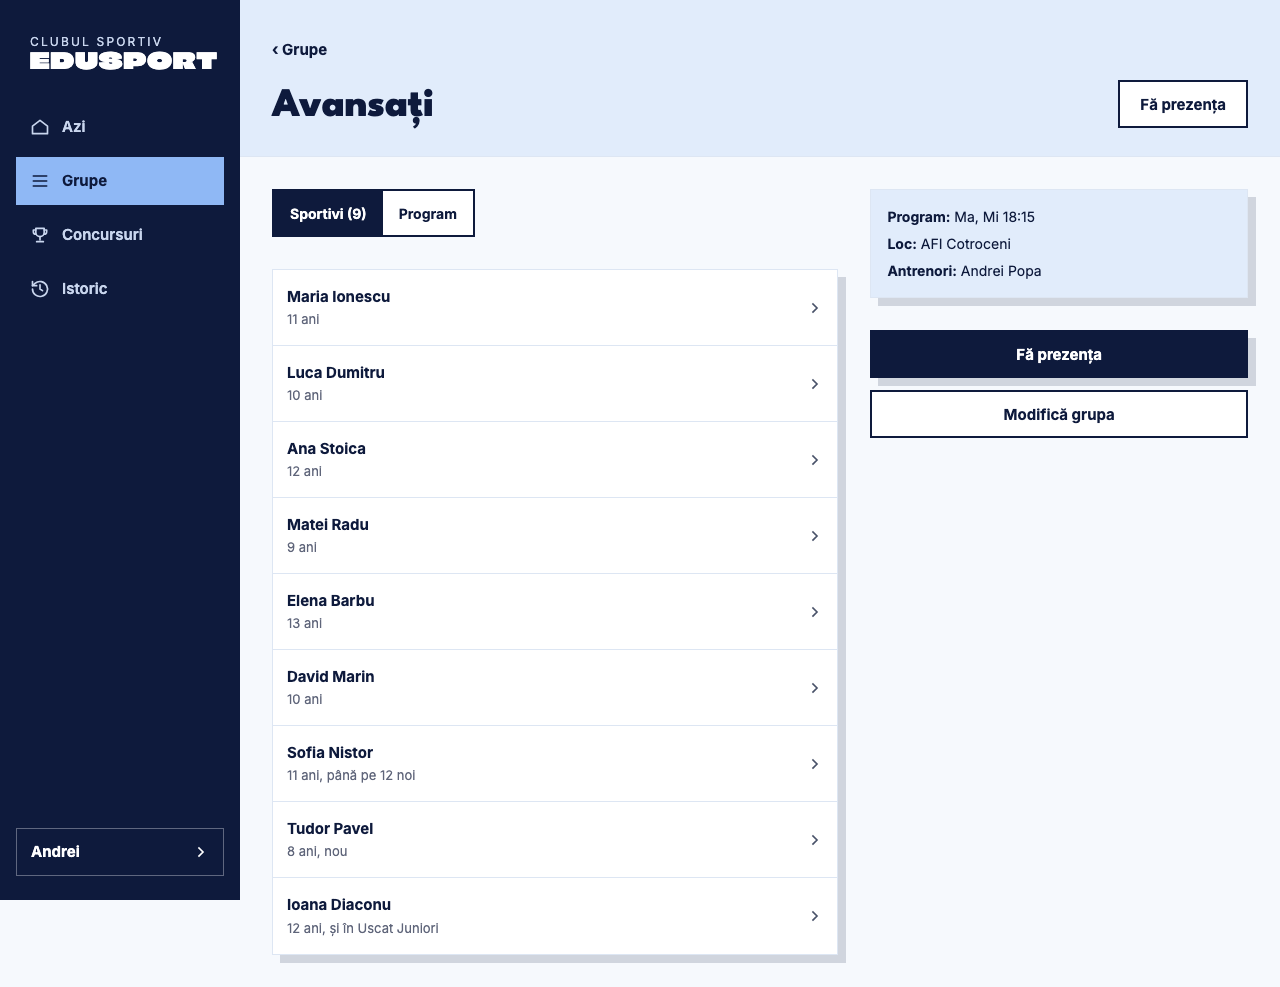
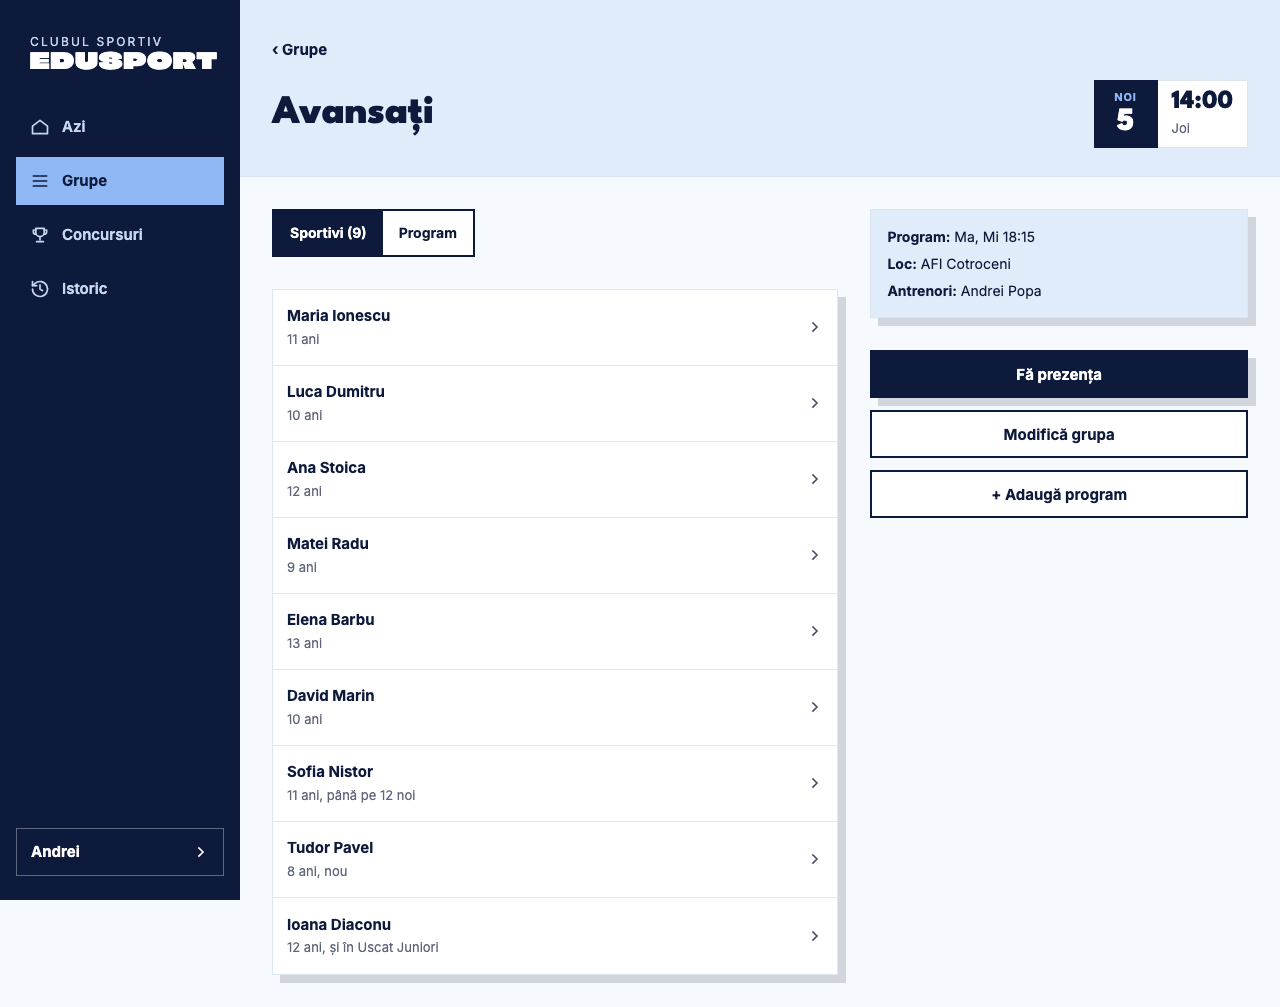
feat(portal): now tile on every coach page from the desktop breakpoint, pinned to the container's right edge; one shared live clock hook

diff --git a/src/app/(antrenor)/antrenor/(app)/page.tsx b/src/app/(antrenor)/antrenor/(app)/page.tsx
@@ -4,13 +4,12 @@ import { useEffect, useRef } from "react";
 import { useRouter, useSearchParams } from "next/navigation";
 import Button from "@/components/ui/button";
 import { AZI, LIST } from "@/lib/portal/copy";
-import { longDay, monthShort, weekdayShort } from "@/lib/portal/format";
+import { weekdayShort } from "@/lib/portal/format";
 import type { CoachClassRow, CoachToday } from "@/lib/portal/api-types";
 import { LoadError } from "@/app/_portal/ui/LoadError";
 import { DateBlock } from "@/app/_portal/ui/DateBlock";
 import { KeyValueCard } from "@/app/_portal/ui/KeyValueCard";
 import { ListRow } from "@/app/_portal/ui/ListRow";
-import { NowTile } from "@/app/_portal/ui/NowTile";
 import { PageBody } from "@/app/_portal/ui/PageBody";
 import { PageHeader } from "@/app/_portal/ui/PageHeader";
 import { ListCard } from "@/app/_portal/ui/PortalCard";
@@ -18,7 +17,7 @@ import { Section, SectionHeading, SeeAllLink } from "@/app/_portal/ui/SectionHea
 import { Spinner } from "@/app/_portal/ui/Spinner";
 import { StatCard } from "@/app/_portal/ui/StatCard";
 import { StatusBlock } from "@/app/_portal/ui/StatusBlock";
-import { useClubClock } from "../_lib/use-clock";
+import { useNow } from "@/app/_portal/lib/use-now";
 import { usePortal } from "../_lib/use-portal";
 import { NewTrainingPopup } from "./antrenament/NewTrainingPopup";
 import { useMe } from "../_lib/me-context";
@@ -39,20 +38,22 @@ export default function AziPage() {
   const router = useRouter();
   const nou = useSearchParams().get("nou");
   const today = usePortal<CoachToday>("coach/today");
-  const clock = useClubClock();
+  const clock = useNow();
   // At midnight the day changes: ask for today's lists again (the old ones stay on screen meanwhile).
-  const seenDate = useRef(clock.date);
+  const seenDate = useRef<string | null>(null);
   const { reload } = today;
+  const date = clock?.date ?? null;
   useEffect(() => {
-    if (seenDate.current === clock.date) return;
-    seenDate.current = clock.date;
-    reload();
-  }, [clock.date, reload]);
+    if (date === null || seenDate.current === date) return;
+    const first = seenDate.current === null;
+    seenDate.current = date;
+    if (!first) reload();
+  }, [date, reload]);
   const shown = today.data ?? today.previous;
   if (today.state === "loading" && !shown) return <PageBody><div className="flex justify-center py-6"><Spinner /></div></PageBody>;
   if (!shown) return <PageBody><LoadError onRetry={today.reload} /></PageBody>;
   const data = shown;
-  const now = clock.time;
+  const now = clock?.time;
   const rows: SessionRowData[] = [
     ...data.groups.map(groupRow),
     ...data.lessons.map((l): SessionRowData => ({
@@ -124,7 +125,7 @@ export default function AziPage() {
         brand
         kicker={AZI.greeting(me?.firstName ?? "")}
         title={AZI.title}
-        aside={<NowTile month={monthShort(clock.date)} day={String(Number(clock.date.slice(8)))} time={now} weekday={weekdayShort(clock.date)} label={AZI.nowLabel(longDay(clock.date), now)} />}
+        tileOnPhone
         actions={<Button variant="secondary" href="/?nou=1" className="h-auto">{AZI.addTraining}</Button>}
       />
       <PageBody>

diff --git a/src/app/_portal/ui/PageHeader.tsx b/src/app/_portal/ui/PageHeader.tsx
@@ -1,5 +1,6 @@
 import Link from "@/components/ui/link";
 import { BrandBlock } from "@/app/_portal/ui/BrandBlock";
+import { NowTile } from "@/app/_portal/ui/NowTile";
 import { HeaderHeight } from "@/app/_portal/ui/HeaderHeight";
 import { PhoneBar } from "@/app/_portal/ui/PhoneBar";
 
@@ -9,7 +10,8 @@ type PageHeaderProps = {
   kicker?: string;
   sub?: string;
   brand?: boolean;
-  aside?: React.ReactNode;
+  /** Show the now tile on the phone too (Azi). It is always shown from the desktop breakpoint. */
+  tileOnPhone?: boolean;
   actions?: React.ReactNode;
 };
 
@@ -17,7 +19,7 @@ type PageHeaderProps = {
  * One header for both layouts. Phone: plain, brand row or back link above the title block.
  * From `portal:` it is the ice top band (the sidebar carries the brand).
  */
-export function PageHeader({ title, back, kicker, sub, brand, aside, actions }: PageHeaderProps) {
+export function PageHeader({ title, back, kicker, sub, brand, tileOnPhone, actions }: PageHeaderProps) {
   return (
     <>
     <PhoneBar title={title} back={back} brand={brand} />
@@ -39,19 +41,17 @@ export function PageHeader({ title, back, kicker, sub, brand, aside, actions }: 
             </div>
           )
         )}
-        <div className="flex flex-wrap items-end justify-between gap-3 portal:gap-4">
+        <div className="flex flex-wrap items-end justify-between gap-3 portal:items-center portal:gap-4">
           <div className="flex min-w-0 flex-col gap-2">
             {kicker && <span className="text-(length:--portal-kicker-size) text-muted">{kicker}</span>}
             <h1 className="font-display font-extrabold text-(length:--portal-h1-size) leading-(--portal-leading-h1)">{title}</h1>
             {sub && <span className="text-(length:--portal-sub-size) text-muted">{sub}</span>}
           </div>
-          {(aside || actions) && (
-            <div className="flex items-stretch gap-(--portal-actions-gap)">
-              {aside}
-              {/* Actions take the height of the aside (the now tile), so they line up as one row. */}
-              {actions && <div className="hidden items-stretch gap-3 portal:flex">{actions}</div>}
-            </div>
-          )}
+          <div data-header-end className="flex items-stretch gap-(--portal-actions-gap)">
+            {/* Actions take the height of the now tile, so they line up as one row; the tile is the far right item on every page. */}
+            {actions && <div className="hidden items-stretch gap-3 portal:flex">{actions}</div>}
+            <NowTile className={tileOnPhone ? undefined : "hidden portal:flex"} />
+          </div>
         </div>
       </div>
     </header>

diff --git a/tests/e2e/portal-now-tile.spec.ts b/tests/e2e/portal-now-tile.spec.ts
@@ -1,0 +1,47 @@
+import { expect, test } from "@playwright/test";
+import { COACH_BASE, loginAs, mockReset } from "./portal-helpers";
+
+test.use({ baseURL: COACH_BASE, viewport: { width: 1280, height: 900 }, timezoneId: "Europe/Bucharest" });
+test.beforeEach(async() => { await mockReset(); });
+
+const PAGES = ["/", "/grupe", "/grupe/gavansati", "/istoric", "/calendar", "/profil"];
+
+test("desktop: the now tile sits at the right edge of the container on every coach page", async({ page }) => {
+  await loginAs(page);
+  const rights: number[] = [];
+  for (const path of PAGES) {
+    await page.goto(path);
+    const tile = page.getByRole("group", { name: /, ora \d\d:\d\d$/ });
+    await expect(tile).toBeVisible();
+    const box = (await tile.boundingBox())!;
+    const inner = await page.locator("[data-page-header] > div").evaluate((el) => {
+      const r = el.getBoundingClientRect();
+      return r.right - parseFloat(getComputedStyle(el).paddingRight);
+    });
+    expect(Math.abs(box.x + box.width - inner)).toBeLessThan(0.5);
+    rights.push(Math.round((box.x + box.width) * 10) / 10);
+  }
+  expect(new Set(rights).size).toBe(1);
+  const w = await page.locator("[data-page-header] > div").evaluate((el) => el.getBoundingClientRect().width);
+  expect(w).toBeLessThanOrEqual(1040);
+  await page.screenshot({ path: process.env.PORTAL_SHOTS ? `${process.env.PORTAL_SHOTS}/built-now-tile-1280.png` : test.info().outputPath("tile-1280.png") });
+});
+
+test("desktop: the tile time updates across a minute on a page other than Azi", async({ page }) => {
+  await loginAs(page);
+  await page.clock.install({ time: new Date("2026-11-05T12:58:30Z") });
+  await page.goto("/grupe");
+  await expect(page.getByRole("group", { name: "Joi, 5 noiembrie, ora 14:58" })).toBeVisible();
+  await page.clock.runFor(91_000);
+  await expect(page.getByRole("group", { name: "Joi, 5 noiembrie, ora 15:00" })).toBeVisible();
+});
+
+test("phone: Azi keeps its tile, other pages have none", async({ page }) => {
+  await page.setViewportSize({ width: 390, height: 844 });
+  await loginAs(page);
+  await page.goto("/");
+  await expect(page.getByRole("group", { name: /^.*, ora \d\d:\d\d$/ })).toBeVisible();
+  await page.goto("/grupe");
+  await expect(page.getByRole("heading", { level: 1 })).toBeVisible();
+  await expect(page.getByRole("group", { name: /ora \d\d:\d\d/ })).toHaveCount(0);
+});

diff --git a/src/app/_portal/ui/NowTile.tsx b/src/app/_portal/ui/NowTile.tsx
@@ -1,13 +1,31 @@
-export function NowTile({ month, day, time, weekday, label }: { month: string; day: string; time: string; weekday: string; label: string }) {
+"use client";
+
+import { AZI } from "@/lib/portal/copy";
+import { longDay, monthShort, weekdayShort } from "@/lib/portal/format";
+import { useNow } from "@/app/_portal/lib/use-now";
+import { cn } from "@/utils/cn";
+
+/** The live day and time tile (Bucharest). Reads its own clock; shown by the page header. */
+export function NowTile({ className }: { className?: string }) {
+  const now = useNow();
+  const month = now ? monthShort(now.date) : "";
+  const day = now ? String(Number(now.date.slice(8))) : "0";
+  const time = now?.time ?? "00:00";
+  const weekday = now ? weekdayShort(now.date) : "";
   return (
-    <div role="group" aria-label={label} className="flex shrink-0 items-stretch">
+    <div
+      role="group"
+      aria-label={now ? AZI.nowLabel(longDay(now.date), now.time) : undefined}
+      aria-hidden={now ? undefined : true}
+      className={cn("flex shrink-0 items-stretch", !now && "invisible", className)}
+    >
       <span className="flex w-(--portal-typeblock-w) flex-col items-center justify-center gap-0.5 bg-surface-dark py-2">
-        <span className="text-(length:--portal-text-11) font-bold uppercase tracking-(--portal-tracking-month) text-ice">{month}</span>
+        <span className="text-(length:--portal-text-11) font-bold uppercase tracking-(--portal-tracking-month) text-ice">{month || "Noi"}</span>
         <span className="font-display font-extrabold text-(length:--portal-nowtile-day) leading-none text-white">{day}</span>
       </span>
       <span className="flex flex-col justify-center gap-1 border-card border-l-0 border-card-line bg-surface-raised px-(--portal-row-pad-x) py-2">
         <span className="font-display font-extrabold text-(length:--portal-nowtile-time) leading-none">{time}</span>
-        <span className="text-(length:--portal-text-13) text-muted">{weekday}</span>
+        <span className="text-(length:--portal-text-13) text-muted">{weekday || "Mar"}</span>
       </span>
     </div>
   );

diff --git a/src/app/_portal/lib/use-now.ts b/src/app/_portal/lib/use-now.ts
@@ -2,9 +2,9 @@
 
 import { useEffect, useState } from "react";
 
-export type ClubClock = { date: string; time: string };
+export type ClubNow = { date: string; time: string };
 
-const read = (): ClubClock => {
+const read = (): ClubNow => {
   const now = new Date();
   return {
     date: new Intl.DateTimeFormat("sv-SE", { timeZone: "Europe/Bucharest" }).format(now),
@@ -13,8 +13,9 @@ const read = (): ClubClock => {
 };
 
 /** Bucharest date and HH:mm, ticking on every minute (the next tick is set for the next :00 seconds). Paused while the tab is hidden, resynced when it shows again. */
-export function useClubClock(): ClubClock {
-  const [clock, setClock] = useState<ClubClock>(read);
+export function useNow(): ClubNow | null {
+  // null until mounted, so the server render and the first client render agree.
+  const [clock, setClock] = useState<ClubNow | null>(null);
   useEffect(() => {
     let timer: ReturnType<typeof setTimeout> | null = null;
     const stop = () => {
@@ -23,7 +24,7 @@ export function useClubClock(): ClubClock {
     };
     const tick = () => {
       const next = read();
-      setClock((c) => (c.date === next.date && c.time === next.time ? c : next));
+      setClock((c) => (c && c.date === next.date && c.time === next.time ? c : next));
       timer = setTimeout(tick, 60_000 - (Date.now() % 60_000));
     };
     const start = () => {
@@ -34,8 +35,8 @@ export function useClubClock(): ClubClock {
       if (document.hidden) stop();
       else start();
     };
-    if (document.hidden) setClock(read());
-    else timer = setTimeout(tick, 60_000 - (Date.now() % 60_000));
+    setClock(read());
+    if (!document.hidden) timer = setTimeout(tick, 60_000 - (Date.now() % 60_000));
     document.addEventListener("visibilitychange", onVisibility);
     return () => {
       document.removeEventListener("visibilitychange", onVisibility);

diff --git a/src/app/(antrenor)/antrenor/kit-preview/KitPreview.tsx b/src/app/(antrenor)/antrenor/kit-preview/KitPreview.tsx
@@ -22,7 +22,6 @@ import { ListCard, PortalCard } from "@/app/_portal/ui/PortalCard";
 import { ListRow } from "@/app/_portal/ui/ListRow";
 import { MonthGrid, type DayMarks } from "@/app/_portal/ui/MonthGrid";
 import { MonthPicker } from "@/app/_portal/ui/MonthPicker";
-import { NowTile } from "@/app/_portal/ui/NowTile";
 import { Column, Columns, PageBody } from "@/app/_portal/ui/PageBody";
 import { PageHeader } from "@/app/_portal/ui/PageHeader";
 import { PortalLink } from "@/app/_portal/ui/PortalLink";
@@ -91,7 +90,6 @@ export function KitPreview() {
           brand
           kicker="Bună, Alina"
           title="Azi"
-          aside={<NowTile month="Noi" day="10" time="17:05" weekday="Marți" label="Marți, 10 noiembrie, ora 17:05" />}
           actions={<Button variant="secondary">Lecție individuală</Button>}
         />
       </div>

diff --git a/docs/portal/DECISIONS.md b/docs/portal/DECISIONS.md
@@ -313,3 +313,4 @@ Companion screens: `edusport_backend/.superpowers/brainstorm/43332-1790846771/co
 - 2026-11-10 (user): Grupă header has no actions; the side column holds Fă prezența, Modifică grupa and + Adaugă program (Club only) on both tabs. Segmented controls hug their options. Portal date fields read zz / ll / aaaa.
 - 2026-11-10 (user), public website and both portals: interactive states never use red text. Selected values in selects and menus, the current link in navbars (desktop and mobile), hovered or focused links and buttons, selected tabs and segments, chosen options in pickers keep the text colour the item has at rest. Selection and hover show through background, border, underline, check icon or weight. Non-interactive red text (eyebrows, labels, prices, the date block word, error text) is unchanged; red borders, underlines and backgrounds stay. Done through tokens where possible: the `link` utility no longer sets a hover text colour (token `--color-link-hover` removed), `--card-hover` is navy on light surfaces; the look sweep asserts no red text on hover and focus.
 - 2026-11-10 (user): no red text in interactive states (hover, selected, active nav, chosen options) on the public site and the portals; desktop side summary columns stick under the header (Istoric, Grupă); the Istoric month picker sits above the list, not in the header.
+- 2026-11-10 (user): desktop, every coach page: the now tile (month word and day on navy, live time and weekday on white) is the far right item of the header band, vertically centred on the title row, pinned to the right edge of the 1040px container so its x is identical on every page; page actions sit immediately to its left at the tile's height. On the phone nothing changes: Azi keeps its tile in the header, other pages have none. The live clock is one shared hook (`_portal/lib/use-now.ts`, null until mounted) read by the tile and by Azi's greying of past rows; the tile takes no props.
